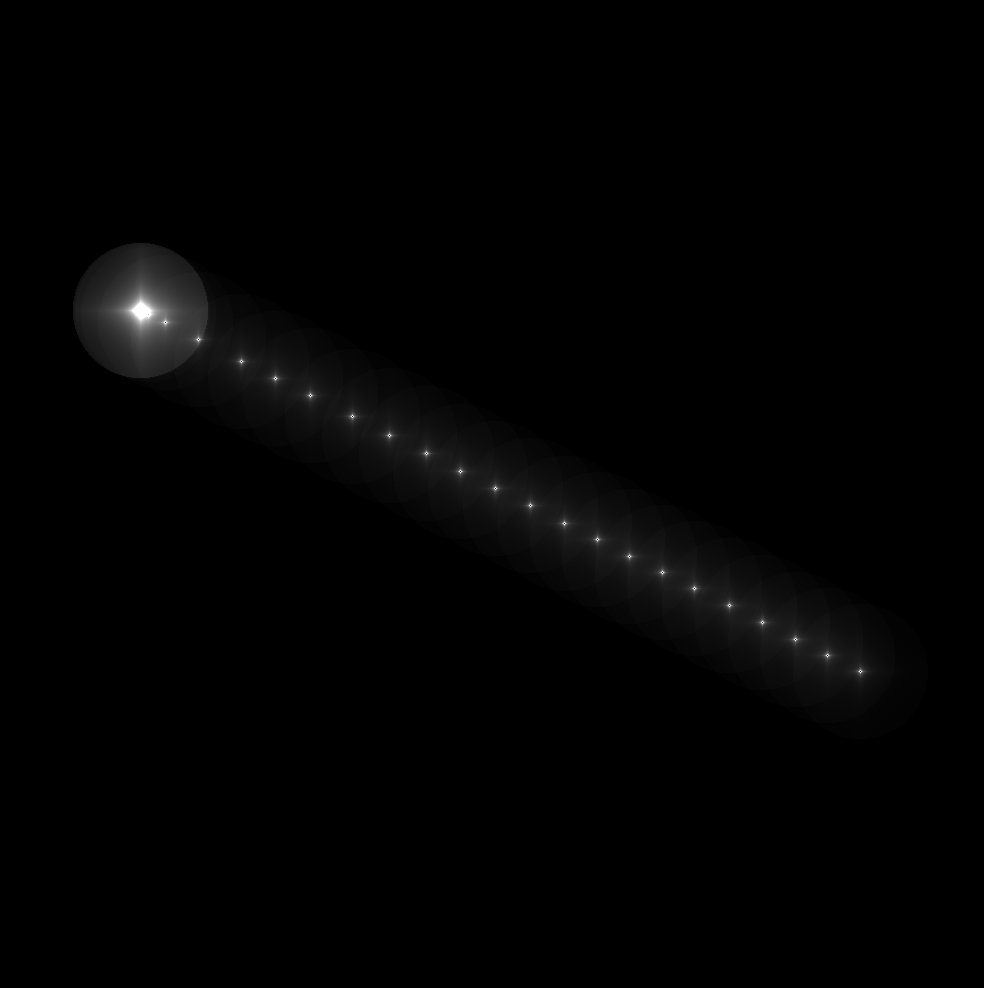
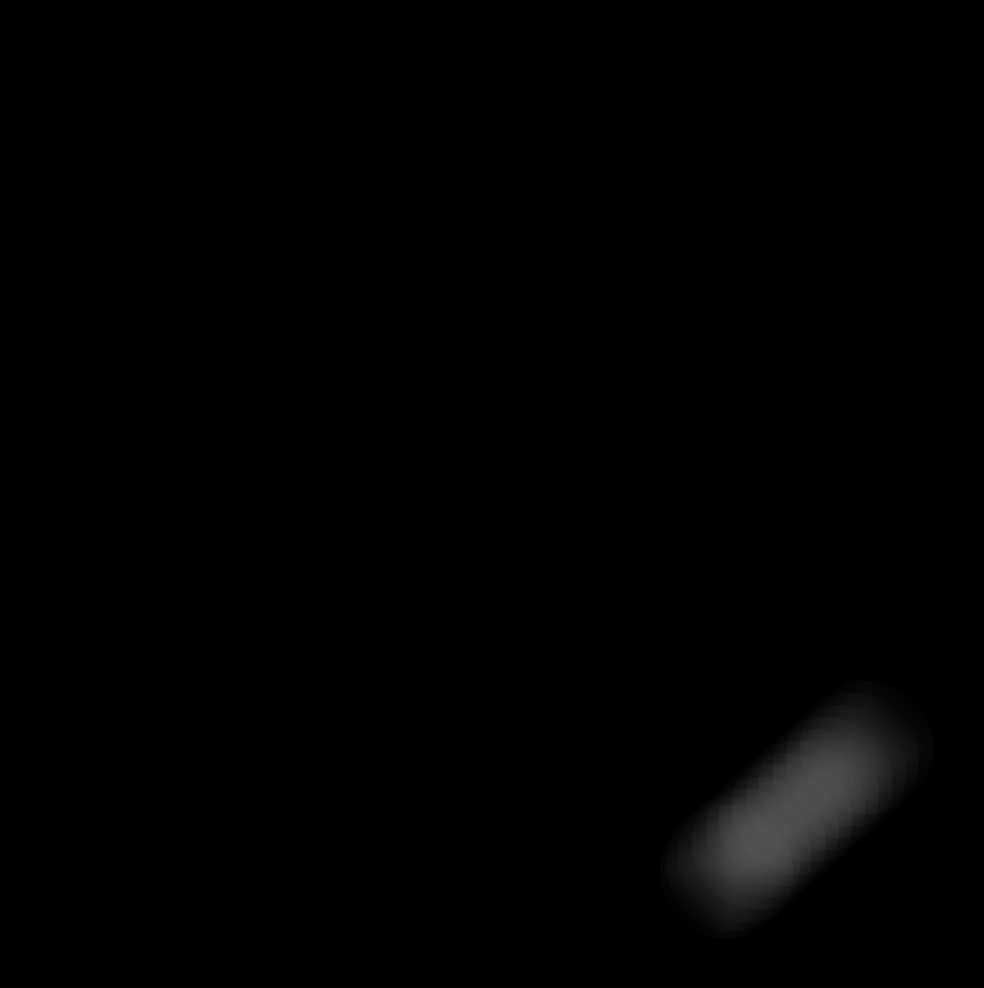
fixed poliv func

Changed region(s): [[0.061, 0.2429, 0.8841, 0.6984], [0.6707, 0.7287, 0.9146, 0.9413]]

diff --git a/v_2/handlers/opencv_manager.py b/v_2/handlers/opencv_manager.py
@@ -3,16 +3,12 @@ import cv2
 from PIL import Image
 
 
+gradient_dict = {1: 2}
 
-gradient_dict = {
-    1: 2
-}
 
 class OpencvManager:
     def __init__(self) -> None:
         pass
-
-
 
     def pil2numpy(img: Image = None) -> np.ndarray:
         """
@@ -20,7 +16,9 @@ class OpencvManager:
         """
 
         if img is None:
-            img = Image.open('/home/wasabi/Desktop/UAF/PolivProcessing/Poliv/img_1.jpeg')
+            img = Image.open(
+                "/home/wasabi/Desktop/UAF/PolivProcessing/Poliv/img_1.jpeg"
+            )
 
         np_array = np.asarray(img)
         return np_array
@@ -32,8 +30,8 @@ class OpencvManager:
         try_to_colour = np.zeros((*matrix_to_save.shape, 3))
         for i in range(len(matrix_to_save)):
             # print(matrix_to_save[i][2])
-            if matrix_to_save[i][2] >=0:
-                try_to_colour[i][1:50] = (0, 0, 250) # bgr
+            if matrix_to_save[i][2] >= 0:
+                try_to_colour[i][1:50] = (0, 0, 250)  # bgr
 
         cv2.imwrite("try_to_colour.png", try_to_colour)
 
@@ -41,26 +39,25 @@ class OpencvManager:
         image = cv2.imread(image_path)
 
         # Gaussian Blur
-        Gaussian = cv2.medianBlur(image, 5)# (15, 15), cv2.BORDER_DEFAULT)
-        cv2.imwrite('Median Blurring' + '.jpg', Gaussian)
+        Gaussian = cv2.medianBlur(image, 5)  # (15, 15), cv2.BORDER_DEFAULT)
+        cv2.imwrite("Median Blurring" + ".jpg", Gaussian)
 
     def overlay_images(self):
-
         # read foreground image
-        img = cv2.imread('output.png', cv2.IMREAD_UNCHANGED)
+        img = cv2.imread("output.png", cv2.IMREAD_UNCHANGED)
 
         # read background image
-        back = cv2.imread('small_map.png')
+        back = cv2.imread("small_map.png")
 
         # extract alpha channel from foreground image as mask and make 3 channels
-        alpha = img[:,:,3]
-        alpha = cv2.merge([alpha,alpha,alpha])
+        alpha = img[:, :, 3]
+        alpha = cv2.merge([alpha, alpha, alpha])
 
         # extract bgr channels from foreground image
-        front = img[:,:,0:3]
+        front = img[:, :, 0:3]
 
         # blend the two images using the alpha channel as controlling mask
-        result = np.where(alpha==(0,0,0), back, front)
+        result = np.where(alpha == (0, 0, 0), back, front)
 
         # save result
         cv2.imwrite("front_back.png", result)

diff --git a/v_2/handlers/point.py b/v_2/handlers/point.py
@@ -34,34 +34,36 @@ class Point:
             ):
                 c = 1 - c
         return c == 1
-    
+
     @staticmethod
     def add_pollinating_liquid_values(
         x_center: float,
         y_center: float,
         x_point_in_our_system: float,
         y_point_in_our_system: float,
-        coef=5,  # вот этот коэффициент желательно подогнать
+        coef=400,  # вот этот коэффициент желательно подогнать
     ):
         try:
             if abs(x_center - x_point_in_our_system) + abs(
                 y_center - y_point_in_our_system
             ):
-                return (
-                    10
-                    / (
-                        abs(x_center - x_point_in_our_system) / 5
-                        + abs(y_center - y_point_in_our_system) / 5
-                    )
-                    * coef
-                )
+                return 0.2 * (100 -  (
+                        abs(x_center - x_point_in_our_system)
+                        + abs(y_center - y_point_in_our_system)
+                    ))
+            # coef / (
+            #          (
+            #             abs(x_center - x_point_in_our_system)
+            #             + abs(y_center - y_point_in_our_system)
+            #         )
+            #     )
             else:
                 return 0  # coef * 4
         except Exception as e:
             print(e)
             print("ERROR:", x_center, x_point_in_our_system)
             return coef * 3
-        
+
     def calculate_included_spray_points(
         self,
         x_center: float,
@@ -109,11 +111,6 @@ class Point:
                     y_center,
                 ),
             )
-        
-
-
-
-
 
         # отсеим наши точки по принципу удаленности от центра:
         def check_if_close(x1, x2, y1, y2, spray_cone_size):
@@ -139,9 +136,7 @@ class Point:
                 pass
         # print(ans_list)
         return ans_list
-    
 
     def control_fertilize(self, ans_list: np.array):
         # в милилитрах нормируем массив
-        meters_under_conus = ans_list.shape[0]*ans_list.shape[1]/pixel_meter
-        
+        meters_under_conus = ans_list.shape[0] * ans_list.shape[1] / pixel_meter

diff --git a/v_2/handlers/mission_manager.py b/v_2/handlers/mission_manager.py
@@ -3,7 +3,14 @@ from handlers.conus import Conus
 
 
 class SprayMission:
-    def __init__(self, matrix_manager, point_manager, conus_manager, gazebo_listener, opencv_manager) -> None:
+    def __init__(
+        self,
+        matrix_manager,
+        point_manager,
+        conus_manager,
+        gazebo_listener,
+        opencv_manager,
+    ) -> None:
         self.matrix_manager = matrix_manager
         self.point_manager = point_manager
         self.conus_manager = conus_manager
@@ -65,7 +72,6 @@ class SprayMission:
             print("Размер нашей матрицы:", self.matrix_manager.matrix.shape)
         else:
             print("\nNow our drone is out of range")
-
 
     def catch_point_and_place_on_matrix(self):
         xyz_dict = self.gazebo_listener.get_pose_drone_coord_xyz()

diff --git a/v_2/settings.py b/v_2/settings.py
@@ -17,7 +17,7 @@ y_list = [811, 880, 1058, 988]
 cmd = "gz topic -e --json-output -t /world/sitl/pose/info -n 1"  
 
 #временной шаг через сколько наносим опыленную территорию в секунлу
-timestamp = 0.2 
+timestamp = 0.5 
 
 # соответсвенно за одну итерацию будет наноситься drone_lirt_per_min/60*timestamp * 1000
 fertilizer_per_iteration = drone_lirt_per_min/60*timestamp*1000

diff --git a/v_2/main.py b/v_2/main.py
@@ -2,7 +2,7 @@ from settings import pixel_meter, timestamp
 from loader import mission_manager
 import time
 
-for i in range(30):
+for i in range(12):
     mission_manager.catch_point_and_place_on_matrix()
     time.sleep(timestamp)
 
